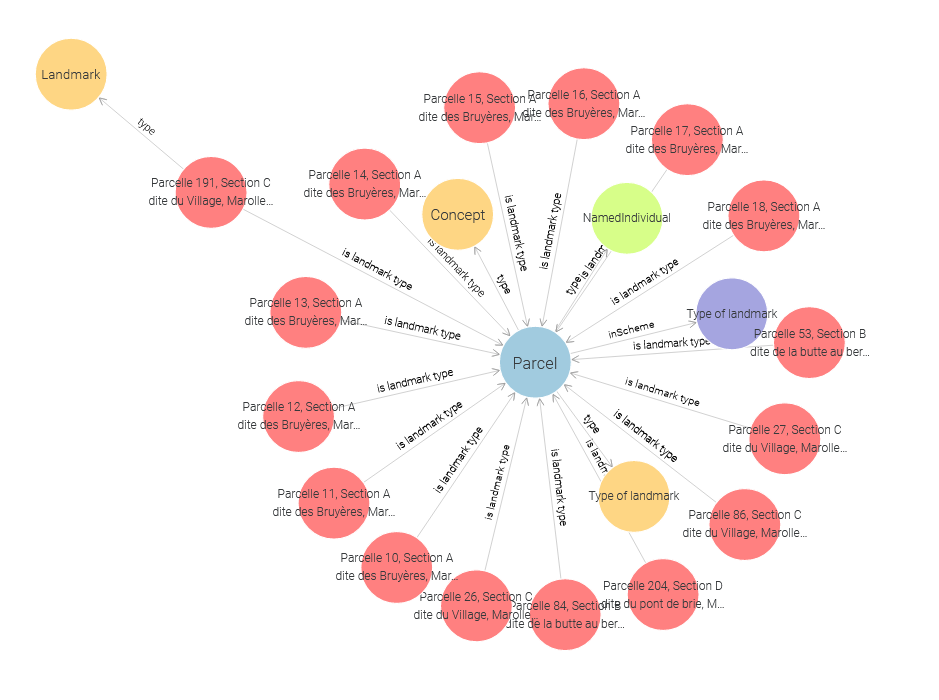
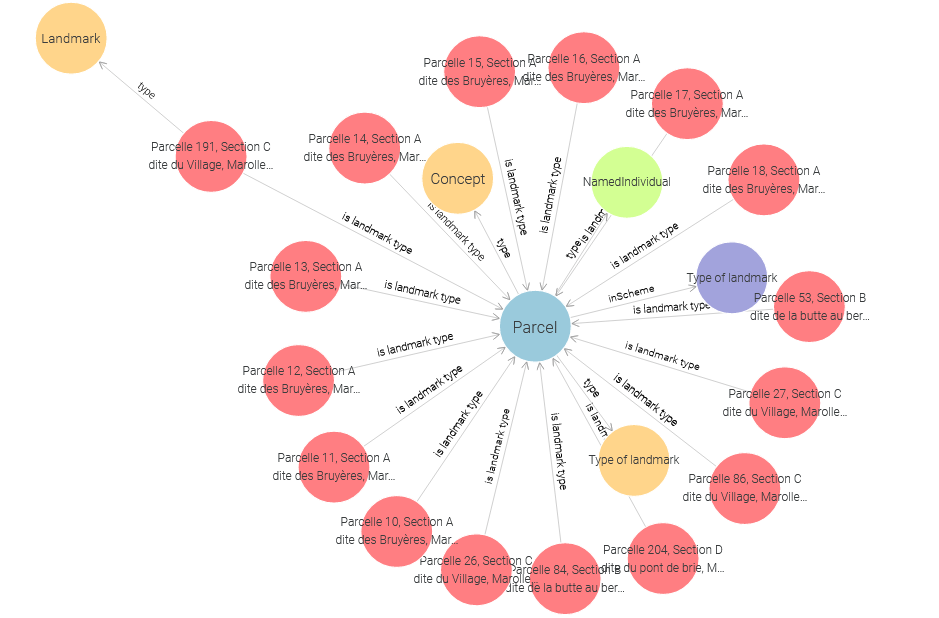
Update topic of interest

diff --git a/index.html b/index.html
@@ -138,35 +138,47 @@
         <h2 class="mb-5 lang-fr">Sujets de recherche</h2>
 
         <div class="row">
+          <!-- TODO: replace with img/solenn/semantic_structuring.png -->
           <article class="col-md-6 col-lg-4">
                 <div class="portfolio-item d-block mx-auto">
-                  <img class="img-fluid" src="img/solenn/graphe_histo.PNG" alt="knowledge graphs" />
+                  <img class="img-fluid" src="img/solenn/semantic_annotation.png" alt="Semantic structuring of documents" />
                   <div class="portfolio-desc d-flex align-center position-absolute w-100">
                     <div class="folio-info my-auto w-100 text-center">
-                      <h5 class="lang-en">Knowledge graphs construction from cultural heritage sources.</h5>
-                      <h5 class="lang-fr">Construction de graphes de connaissances à partir de documents patrimoniaux.</h5>
+                      <h5 class="lang-en">Semantic structuring of complex corpus of documents (noisy, heterogeneous)</h5>
+                      <h5 class="lang-fr">Structuration sémantique de corpus complexes de documents (bruités, hétérogènes)</h5>
                     </div>
                   </div>
                 </div>
           </article>
-          <div class="col-md-6 col-lg-4">
+          <article class="col-md-6 col-lg-4">
                 <div class="portfolio-item d-block mx-auto">
-                  <img class="img-fluid" src="img/solenn/ontology.PNG"  alt="semantic web" />
-                  <div class="portfolio-desc align-center position-absolute w-100">
-                    <div class="folio-info w-100 text-center">
-                      <h5 class="lang-en">Geographic or geohistorical data publishing on the Web</h5>
-                      <h5 class="lang-fr">Représentation de données géographiques ou géohistoriques pour le Web de données</h5>
+                  <img class="img-fluid" src="img/solenn/digitalhumanities.png" alt="Geocoding and spatio-temporal analysis" />
+                  <div class="portfolio-desc d-flex align-center position-absolute w-100">
+                    <div class="folio-info my-auto w-100 text-center">
+                      <h5 class="lang-en">Geocoding and spatio-temporal analysis with historical data</h5>
+                      <h5 class="lang-fr">Géocodage et analyse spatio-temporelle à partir de données historiques</h5>
                     </div>
                   </div>
                 </div>
-          </div>
+          </article>
           <article class="col-md-6 col-lg-4">
                 <div class="portfolio-item d-block mx-auto">
-                  <img class="img-fluid" src="img/solenn/digitalhumanities.png" alt="digital humanities" />
+                  <img class="img-fluid" src="img/solenn/retrieval.png" alt="Knowledge-graph-based semantic retrieval" />
                   <div class="portfolio-desc d-flex align-center position-absolute w-100">
                     <div class="folio-info my-auto w-100 text-center">
-                      <h5 class="lang-en">GIS.</br>Digital Humanities</h5>
-                      <h5 class="lang-fr">SIG.</br>Humanités Numériques</h5>
+                      <h5 class="lang-en">Knowledge graph-based augmented retrieval and semantic search</h5>
+                      <h5 class="lang-fr">Récupération augmentée et recherche sémantique basée sur les graphes de connaissances</h5>
+                    </div>
+                  </div>
+                </div>
+          </article>
+          <article class="col-md-6 col-lg-4">
+                <div class="portfolio-item d-block mx-auto">
+                  <img class="img-fluid" src="img/solenn/graphe_histo.PNG" alt="Geohistorical knowledge graphs" />
+                  <div class="portfolio-desc d-flex align-center position-absolute w-100">
+                    <div class="folio-info my-auto w-100 text-center">
+                      <h5 class="lang-en">Geohistorical knowledge graphs and ontologies to represent territories evolution</h5>
+                      <h5 class="lang-fr">Graphes de connaissances and ontologies pour représenter l'évolution des territoires</h5>
                     </div>
                   </div>
                 </div>
